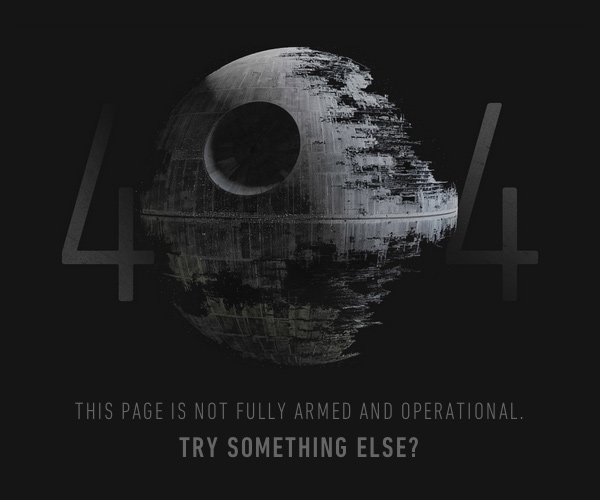
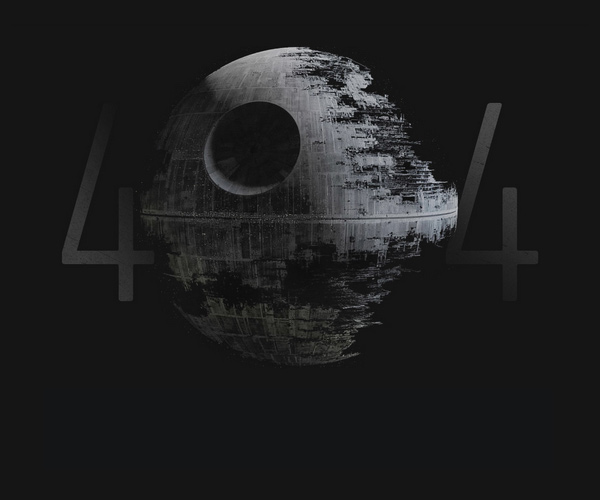
remove text from last slide. fix grammar

Changed region(s): [[0.3, 0.87, 0.72, 0.93], [0.39, 0.81, 0.87, 0.84], [0.12, 0.81, 0.36, 0.84]]

diff --git a/index.html b/index.html
@@ -967,7 +967,7 @@
         <li>Мультиселект</li>
         <li>Подсветка синтаксиса</li>
         <li>Автодополнение</li>
-        <li>Расширяемовть плагинами</li>
+        <li>Расширяемость плагинами</li>
         <li>Интеграция с Git</li>
       </ul>
     </div>
@@ -1177,9 +1177,9 @@
     </h2>
     <img src="./pictures/lightsaber-block.png" alt="" width="100%">
     <pre>
-      <code>&lt;div class="<mark>light-saber</mark>"&gt;</code>
-      <code>  &lt;div class="light-saber__blade"&gt;&lt;/div&gt;</code>
-      <code>  &lt;div class="light-saber__hilt"&gt;&lt;/div&gt;</code>
+      <code>&lt;div class="<mark>lightsaber</mark>"&gt;</code>
+      <code>  &lt;div class="lightsaber__blade"&gt;&lt;/div&gt;</code>
+      <code>  &lt;div class="lightsaber__hilt"&gt;&lt;/div&gt;</code>
       <code>&lt;/div&gt;</code>
     </pre>
   </section>
@@ -1190,9 +1190,9 @@
     </h2>
     <img src="./pictures/lightsaber-element.png" alt="" width="100%">
     <pre>
-      <code>&lt;div class="light-saber"&gt;</code>
-      <code>  &lt;div class="light-saber<mark>__blade</mark>"&gt;&lt;/div&gt;</code>
-      <code>  &lt;div class="light-saber<mark>__hilt</mark>"&gt;&lt;/div&gt;</code>
+      <code>&lt;div class="lightsaber"&gt;</code>
+      <code>  &lt;div class="lightsaber<mark>__blade</mark>"&gt;&lt;/div&gt;</code>
+      <code>  &lt;div class="lightsaber<mark>__hilt</mark>"&gt;&lt;/div&gt;</code>
       <code>&lt;/div&gt;</code>
     </pre>
   </section>
@@ -1203,9 +1203,9 @@
     </h2>
     <img src="./pictures/lightsaber-mod.png" alt="" width="100%">
     <pre>
-      <code>&lt;div class="light-saber light-saber<mark>_kylo-ren</mark>"&gt;</code>
-      <code>  &lt;div class="light-saber__blade light-saber__blade<mark>_sith</mark>"&gt;&lt;/div&gt;</code>
-      <code>  &lt;div class="light-saber__hilt light-saber__hilt<mark>_crossguard</mark>"&gt;&lt;/div&gt;</code>
+      <code>&lt;div class="lightsaber lightsaber<mark>_kylo-ren</mark>"&gt;</code>
+      <code>  &lt;div class="lightsaber__blade lightsaber__blade<mark>_sith</mark>"&gt;&lt;/div&gt;</code>
+      <code>  &lt;div class="lightsaber__hilt lightsaber__hilt<mark>_crossguard</mark>"&gt;&lt;/div&gt;</code>
       <code>&lt;/div&gt;</code>
     </pre>
   </section>
